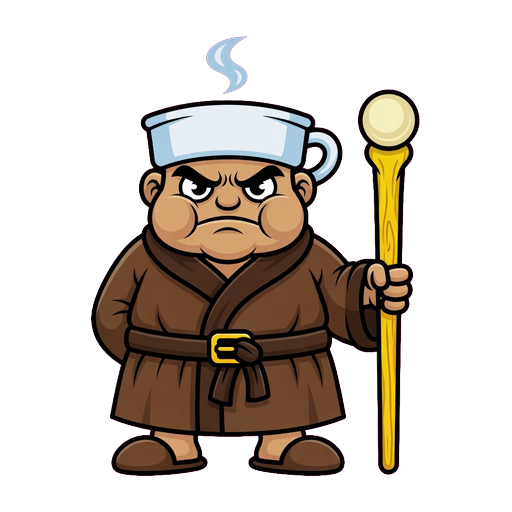
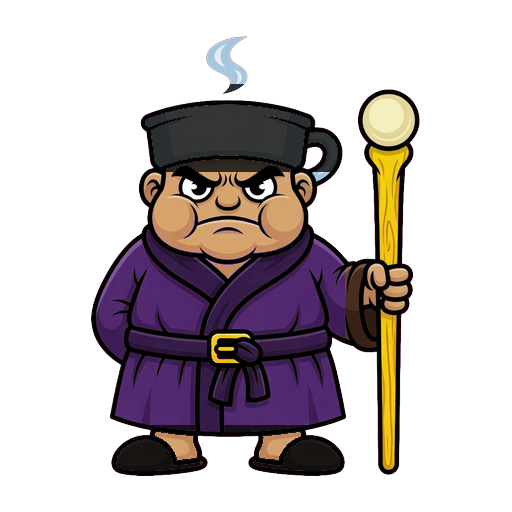
elephanto: tea girl green mask, coffee man purple robe with black hat and shoes

diff --git a/elephanto/src/sprites.js b/elephanto/src/sprites.js
@@ -52,11 +52,11 @@ function eyes(g, x, y, gap, angry) {
 
 function drawCoffeeMan(g) {
   staff(g, 76, 26, 84, 92);                    // yellow staff
-  rrect(g, 22, 40, 48, 54, 12, '#6b4423');     // coffee-brown robe
-  rrect(g, 22, 62, 48, 8, 4, '#503014');       // belt
+  rrect(g, 22, 40, 48, 54, 12, '#5e35a0');     // purple robe
+  rrect(g, 22, 62, 48, 8, 4, '#3f2268');       // belt
   circle(g, 46, 28, 17, '#a9744f');            // head
-  rrect(g, 33, 2, 26, 14, 4, '#f0e6d2');       // coffee-cup hat
-  g.strokeStyle = '#f0e6d2'; g.lineWidth = 4;  // cup handle
+  rrect(g, 33, 2, 26, 14, 4, '#23262d');       // black coffee-cup hat
+  g.strokeStyle = '#23262d'; g.lineWidth = 4;  // cup handle
   g.beginPath(); g.arc(61, 9, 5, -1.2, 1.2); g.stroke();
   g.strokeStyle = 'rgba(255,255,255,.7)'; g.lineWidth = 2; // steam
   g.beginPath(); g.moveTo(42, -2); g.quadraticCurveTo(44, -6, 46, -2); g.stroke();
@@ -75,6 +75,7 @@ function drawTeaGirl(g) {
   g.beginPath(); g.arc(56, 24, 16, Math.PI, 0); g.fill();
   circle(g, 56, 8, 7, '#2e6b3a');              // bun
   circle(g, 56, 8, 3, '#ffd23a');              // bun pin
+  rrect(g, 38, 22, 36, 17, 8, '#2e6b3a');      // green bandit mask
   eyes(g, 56, 30, 7, true);
   g.strokeStyle = '#8a4b2a'; g.lineWidth = 3;  // smug smile
   g.beginPath(); g.arc(56, 36, 6, 0.25, Math.PI - 0.25); g.stroke();

diff --git a/elephanto/docs/asset-prompts.md b/elephanto/docs/asset-prompts.md
@@ -22,11 +22,11 @@ Give this whole file to an asset-generation agent (or copy one prompt block at a
 ## Asset list
 
 ### 1. `coffee-man.png` — BAD GUY BOSS
-- Theme colors: coffee brown robe `#6b4423`, dark brown belt `#503014`, tan skin `#a9744f`, cream cup-hat `#f0e6d2`, **yellow staff `#ffd23a`**.
+- Theme colors: purple robe `#5e35a0`, dark purple belt `#3f2268`, tan skin `#a9744f`, black cup-hat `#23262d`, **yellow staff `#ffd23a`**. (Recolored post-generation: robe purple, hat and shoes black.)
 ```
 Flat 2D cartoon game sprite, full body, front-facing, transparent background.
-A grumpy cartoon villain called Coffee Man: a stout man in a coffee-brown robe
-with a dark brown belt, wearing a white coffee cup as a hat with a handle and a
+A grumpy cartoon villain called Coffee Man: a stout man in a purple robe
+with a dark purple belt, wearing a black coffee cup as a hat with a handle and a
 wisp of steam. Angry eyebrows, frowning face, tan skin. He holds a tall bright
 YELLOW wooden staff with a round knob on top in one hand, planted on the ground.
 Bold outlines, bright flat colors, kid-friendly video game style. The character
